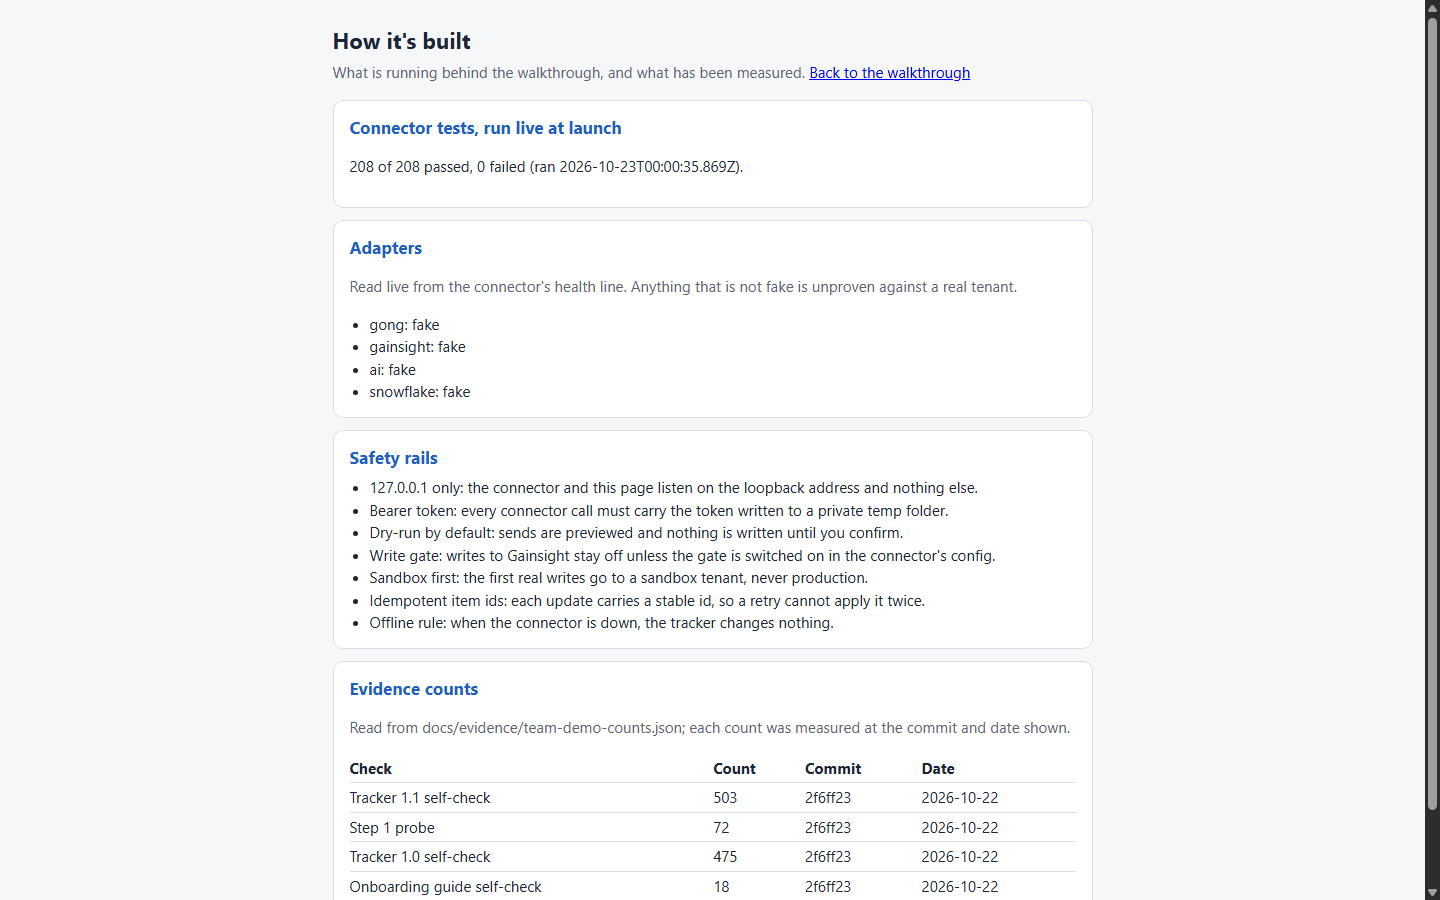
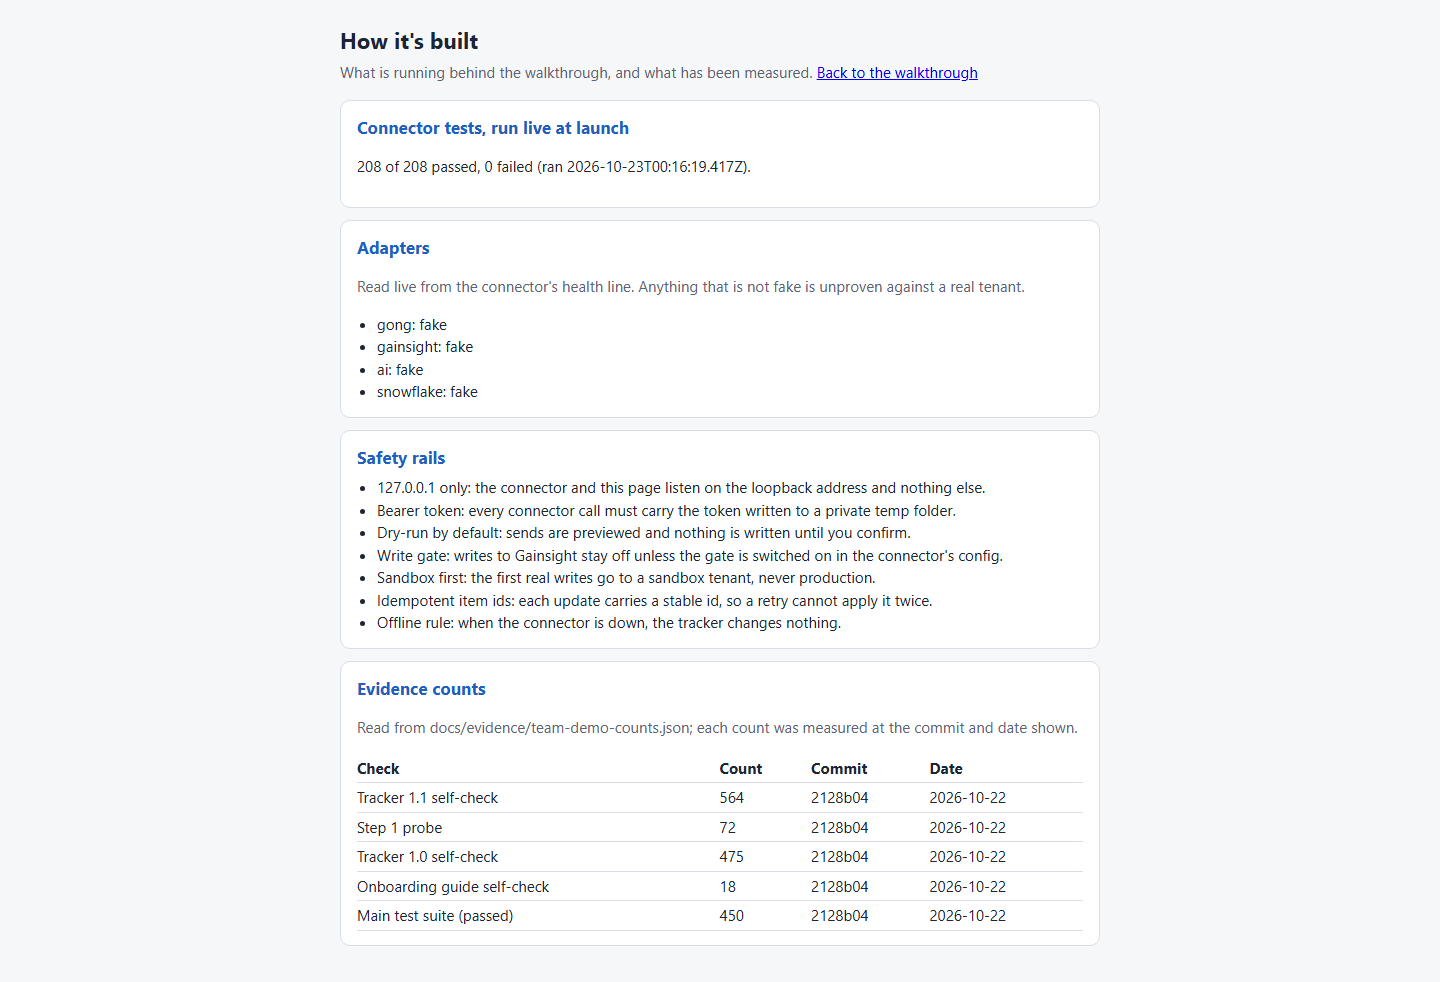
task 9: good-to-go evidence doc; team-demo-counts.json re-measured (stale 503 -> 564 etc.) with a red-first README guard; shot 06 retaken whole page
Stale number fixed: team-demo-counts.json said Tracker 1.1 self-check 503 at 2f6ff23, suite 433; now 564 / 72 / 475 / 18 / 450 at 2128b04.
Guard red first: "json count 503 != README --expect 564".

Claude-Session: https://claude.ai/code/session_01B866B3SERez7THyKhhpxZi

diff --git a/docs/evidence/2026-10-22-runway-fake-book-v13.md b/docs/evidence/2026-10-22-runway-fake-book-v13.md
@@ -1,0 +1,45 @@
+# Runway fake-book on v13: good-to-go evidence (Task 9)
+
+Branch runway-fake-book-v13, measured 2026-10-22. Ian's scope that day: everything works on the fake book except the live Gainsight and Snowflake connection, which is parked until his internal team supplies access.
+
+"Re-run" means run again in Task 9 at 2128b04 (after the last html commit 512f1c0). "Task 2/6" means taken from `docs/evidence/2026-10-22-fake-book-v13-merge-numbers.md` (its "after Tasks 3-6" column, measured at 4f7f9c3, which is also after 512f1c0, so not stale). Logs for the re-runs: job tmp folder `t9/`.
+
+## What was checked, one row per feature area
+
+| Feature area | Check command | Measured result | Commit |
+|---|---|---|---|
+| v13 look screens (Today, Co-pilot, Accounts, Risk, System, Settings) | `node tools/selfcheck.mjs osm-book-of-business-tracker-1.1.html --seed demo-seed.js --expect 564`; step 0 probe `... --seed demo-seed.js,tools/step0-probe.js --fn step0Probe --expect 34`; step 1 probe `... --fn step1Probe --expect 72` (with step1-fixture.js) | 564/564, console errors 0 (re-run); step 0 34/34 (re-run); step 1 72/72 (re-run). Side-by-side design vs build PNGs: `docs/evidence/v13-vs-design/` | cc39480 (merge), 4f7f9c3 (step 0 fix), 93b2fc3 |
+| Check for calls | `node tools/connector-e2e.mjs`; `node tools/d3-prep-panel.mjs --check` | connector-e2e 8/8 (re-run); D3 prep rows 5 (Task 2/6). Capture 01 shows 5 matched, 1 no account | cc39480, 0865c0d |
+| Refresh from Gainsight | `node tools/connector-e2e.mjs`; capture 02 | 8/8 (re-run); 17 accounts in the differences list, no clipped table (Task 7: scrollWidth = clientWidth 933) | 0865c0d |
+| Send to Gainsight | `node tools/connector-e2e.mjs`; capture 04 | 8/8 (re-run); capture shows 2 sent, 1 failed on the v13 Risk screen's Gainsight queue | 0865c0d |
+| Check CSAT (T4) | in the 564 self-check: T4v13 (browser click on `#btn-check-survey-connector` goes to /v1/csat); `node --test test/connector-survey-pull.test.mjs` | T4v13 passes inside 564/564 (re-run). Mutant (renamed button) gave 561/562 FAIL T4v13, real 562/562 (Task 3) | dd4d4f6 |
+| Desk card (T14), re-scoped to the v13 Risk screen | in the 564 self-check: T14v13 (confirm a risk on `[data-v13-risk]`, real clicks) | The old Desk card does not exist in v13 (0 `.dk-risk`); the guard was moved to the v13 Risk screen. Mutants 561/563 and 562/563 FAIL, green 563/563 (Task 4b) | 2790677 |
+| Desk reason (T16), re-scoped to the v13 Risk screen; found and fixed a real defect | in the 564 self-check: T16v13 | The v13 "Add a reason" button also confirmed the unreviewed signal. One-line fix (passes `addingReason`). Parent html with the new test: 563/564 FAIL T16v13; fixed: 564/564 | 512f1c0 |
+| Snowflake adapter | `node --test test/parked-live.test.mjs connector/test/*.test.mjs` | Fake adapter is the default and reaches no non-127.0.0.1 host (parked-live, with a negative control). Re-run with csat-no-network and the connector tests: 217 tests, 217 pass, 0 fail | 2128b04 |
+| Launcher and walkthrough | `node tools/team-demo.mjs --headless --exit-after-ready`; `node --test test/team-demo.test.mjs` | ready on 127.0.0.1:8801, temp folder and port released afterwards (Task 2/6); team-demo tests pass (re-run) | 0865c0d |
+| Captures | `node tools/team-demo-capture.mjs <dir>` | Six PNGs on the v13 look, fingerprint `#app [data-osm]` on 01-05, shot 06 now the whole page with the Evidence counts table (564 / 72 / 475 / 18 / 450 at 2128b04). Hashes in `docs/evidence/team-demo-captures/looks-10-v13.md` | 0865c0d, Task 9 commit |
+| Sim | `node tools/sim/osm-day/run.mjs --version 1.1`; `--version 1.0` | 1.1: `steps 22 breaks 22`, exit 0 (re-run). 1.0: exit 1 with the same 7 known FAIL (D2, D3, D8, L7, L8, L11, L12), see Known residuals | 4f7f9c3 |
+| Counts on the /built page | `node --test test/team-demo.test.mjs` (new guard: counts equal README.txt --expect) | json said 503 at 2f6ff23; guard red ("json count 503 != README --expect 564"); re-measured: 1.1 564, step 1 72, 1.0 475, guide 18, suite 450 | Task 9 commit |
+| Prose counts | `node --test test/readme-counts.test.mjs` | README and HOSTING say 564, guarded | 4f7f9c3 |
+| Parked-live audit | `node --test test/parked-live.test.mjs`; locked `test/csat-no-network.test.mjs` | docs say live connection waits on Ian's internal team; no default path reaches a Gainsight or Snowflake host | 2128b04 |
+
+Other measured numbers (Task 2/6): 1.0 self-check 475/475 and guide 18/18 (re-run); FX1 probe 2/2; D2/L11/L12 checks ok; step 1 cold start C8 PASS, median 409.3 ms, spread 9%.
+
+## Parked
+
+Live Gainsight and Snowflake are parked until Ian's internal team supplies access. Nothing in this branch reaches either host by default: `connector/config.example.json` uses the fake adapters, dry run on. Proof: `test/parked-live.test.mjs` (docs say so; no default path reaches a host, with a control that does) and the locked `test/csat-no-network.test.mjs` (CSAT on the tracker side makes no network call). The tracker works fully offline and by file import in the meantime.
+
+## Deferred by Ian 2026-10-22
+
+The v13 features 1.1 has no data for: signal ids (EV-27); co-pilot minutes saved and applied / edited / dismissed counts; "Applied for you"; "After your calls"; implementation %; check-ins due; sentiment and renewal pickers; Gainsight dry-run, JSON preview, field mapping and per-row company-ID boxes; renewal window; TTFV target; curriculum versions. (Source: the "Left out" line of `docs/evidence/2026-10-22-runway-v13-fixes.md`.)
+
+## Not on any list
+
+The design's floating "Ask or jump" bar is absent from the build (0 hits in the html) and is not on Ian's deferred list. This is Ian's decision: build it, or add it to the deferred list.
+
+## Known residuals
+
+- T4 response-to-modal path is covered in two halves: T4v13 (browser: click goes to /v1/csat) and the connector-survey-pull node test ("a good response opens the modal with the plan"). No single browser test covers the whole path.
+- `tools/step1-coldstart.mjs` printed `SPREAD_FLAG: yes` (32% spread) in Task 2. That was timing noise: C8 PASS (median under 500 ms) both times, and after Task 6 the spread was 9%.
+- The 1.0 sim keeps its 7 known FAIL (D2, D3, D8, L7, L8, L11, L12, all "break NOT-TESTED"): those features exist only in 1.1 and 1.0 is locked. Unchanged from Task 2.
+- Look status: the six Task 7 captures await Ian's look. PM first pass: keep 01-05, 06 reshot (done in Task 9). Not self-approved. One taste note left open: in 02 the stacked tables' headings do not line up (no clipping).

diff --git a/docs/evidence/team-demo-captures/looks-10-v13.md b/docs/evidence/team-demo-captures/looks-10-v13.md
@@ -9,7 +9,7 @@ Retaken 2026-10-23T00:01Z with tools/team-demo-capture.mjs (1440x900, temp profi
 | 03-check-csat-dry-run.png | Import CSAT dates dry run before Apply | osm:true, Today desk behind the modal | 1247f20f77d5d20bbb127e2386cd67e0a5d5f5a5d8ef941ffb1a107c4abb122f |
 | 04-send-to-gainsight.png | v13 Risk screen scrolled to the Gainsight queue: 2 sent, 1 failed, toast | osm:true, Signals ask. You confirm. / Gainsight queue 3 | 4a9aa0c4010488bf0c09a13c07f89688aa263f5d7d0511594080b787bf130221 |
 | 05-health.png | v13 desk with the More menu open, status row "Connector: FAKE DATA" | osm:true, Today | d40afe067b9240212ee1b85179c32775cef7edd48abd39c2e9f76c7eb566f578 |
-| 06-how-its-built.png | tools/team-demo/built.html (not the tracker, so osm:false is correct) | osm:false, How it's built | 8945612d4bdfd87e43a3d0a00406798fee8b3aebd8de10e049cb00b8bac05550 |
+| 06-how-its-built.png | tools/team-demo/built.html (not the tracker, so osm:false is correct) | osm:false, How it's built, whole page (taller than 900 px) with the full Evidence counts table | 43ab9ad8c35b5d696f21078a2e9b18b5fe3f27d28f39caeefec70452f95e29ee |
 
 ## Ian's 3 issues, measured on the new run (CDP)
 
@@ -22,4 +22,4 @@ Retaken 2026-10-23T00:01Z with tools/team-demo-capture.mjs (1440x900, temp profi
 - 05: the open More menu covers part of the Wrap up / Day-Week controls by design; the health line is only visible inside that menu on v13.
 - 02: column headings of the stacked per-account tables do not line up with each other (auto table layout); no clipping.
 - 04 changed from the first reshoot: the queue is scrolled into view because the top of the Risk screen did not show the queue.
-- 06: the Evidence counts table still reads "Tracker 1.1 self-check 503" (docs/evidence/team-demo-counts.json); the branch self-check is 564. Outside this task's files, flagged for the lead.
+- 06: reshot in Task 9 as a whole-page capture; the Evidence counts table now reads 564 / 72 / 475 / 18 / 450 at 2128b04.
